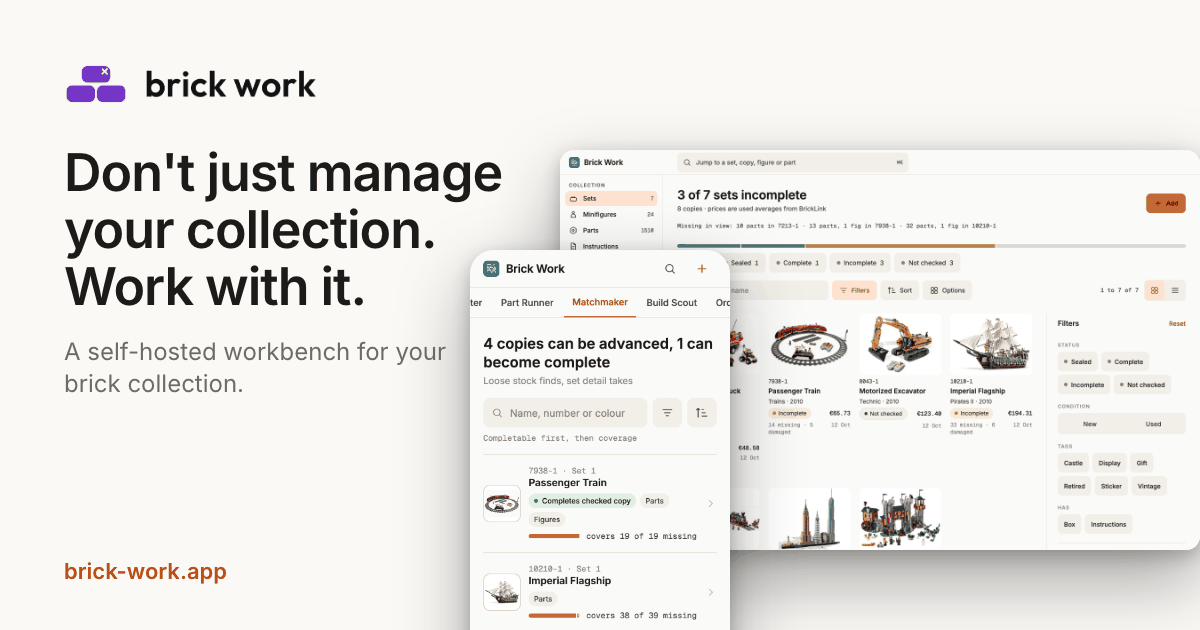
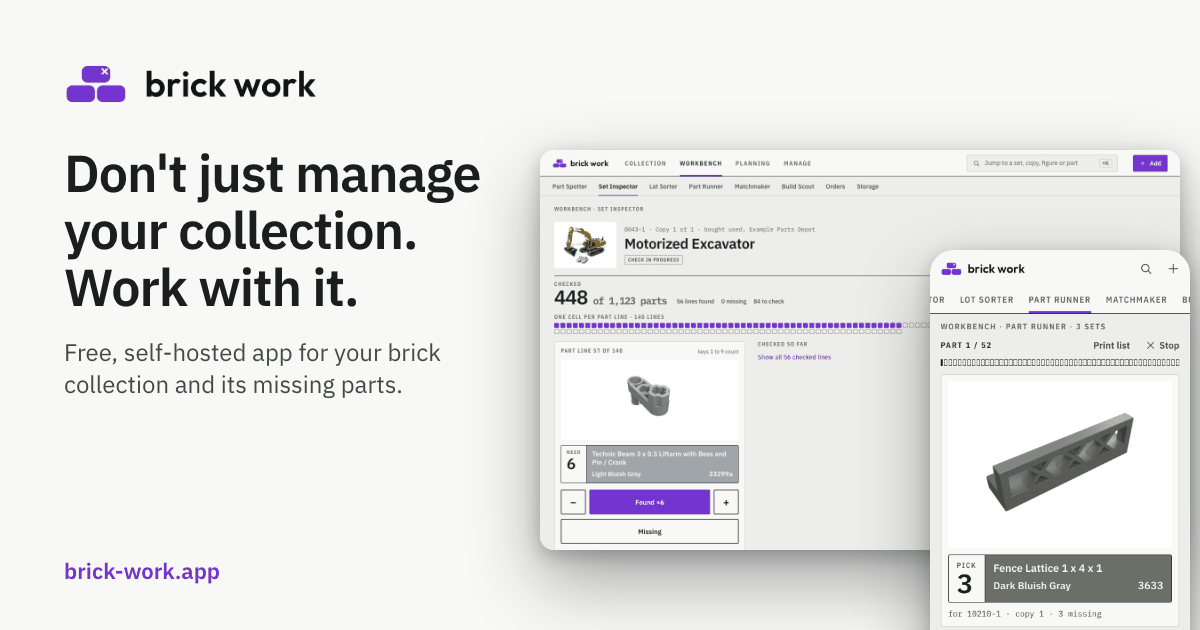
README first screen and social previews on the #622 shots (#502, #467)
Set Inspector desktop large and Part Runner phone small in the README first
screen; the sets list moves to "In pictures". site_social.py reads the two
README shots; both previews re-rendered (1200x630, 1280x640).

Docs: README and docs images only, no app source.

Claude-Session: https://claude.ai/code/session_018rf9z6rjRKwfGfRGmRRHUP

diff --git a/scripts/site_social.py b/scripts/site_social.py
@@ -180,8 +180,8 @@ def build_html(folder: Path, width: int = 1200, height: int = 630) -> str:
         '__WIDTH__': str(width),
         '__HEIGHT__': str(height),
         '__SHIFT__': str(width - 1200),
-        '__DESKTOP_IMG__': stage(ROOT / 'scripts' / 'site' / 'img' / '1c-sets-desktop-1440-light.png', folder),
-        '__PHONE_IMG__': stage(ROOT / 'scripts' / 'site' / 'img' / '3a-matcher-phone-390-light.png', folder),
+        '__DESKTOP_IMG__': stage(ROOT / 'docs' / 'img' / 'readme' / '3e-part-desktop-1440-light.png', folder),
+        '__PHONE_IMG__': stage(ROOT / 'docs' / 'img' / 'readme' / '3c-picker-pick-phone-390-light.png', folder),
     }
     page = HTML
     for key, value in tokens.items():

diff --git a/README.md b/README.md
@@ -28,12 +28,12 @@
 <p align="center">
   <a href="https://brick-work.app/demo/">
     <picture>
-      <source media="(prefers-color-scheme: dark)" srcset="docs/img/readme/1c-sets-desktop-1440-dark.png">
-      <img src="docs/img/readme/1c-sets-desktop-1440-light.png" alt="Brick Work: the sets list on an invented collection" width="620">
+      <source media="(prefers-color-scheme: dark)" srcset="docs/img/readme/3e-part-desktop-1440-dark.png">
+      <img src="docs/img/readme/3e-part-desktop-1440-light.png" alt="Brick Work: Set Inspector in the middle of a part check, the Motorized Excavator at part line 57 of 140 with Found and Missing buttons" width="620">
     </picture>
     <picture>
-      <source media="(prefers-color-scheme: dark)" srcset="docs/img/readme/3c-picker-pick-390-dark.png">
-      <img src="docs/img/readme/3c-picker-pick-390-light.png" alt="Brick Work: Part Runner on a phone" width="190">
+      <source media="(prefers-color-scheme: dark)" srcset="docs/img/readme/3c-picker-pick-phone-390-dark.png">
+      <img src="docs/img/readme/3c-picker-pick-phone-390-light.png" alt="Brick Work: Part Runner on a phone, a fence lattice to pick for three sets" width="190">
     </picture>
   </a>
 </p>
@@ -64,6 +64,14 @@ It brings your collection over from Brickset, Rebrickable and BrickTracker, plus
 ## In pictures
 
 These screenshots show the built app on the demo's invented collection, with real Rebrickable set and part pictures.
+
+<p align="center">
+  <picture>
+    <source media="(prefers-color-scheme: dark)" srcset="docs/img/readme/1c-sets-desktop-1440-dark.png">
+    <img src="docs/img/readme/1c-sets-desktop-1440-light.png" alt="Brick Work: the sets list on an invented collection" width="620">
+  </picture>
+  <br><sub><strong>Your sets.</strong> The whole collection in one list, searchable and sorted the way you choose.</sub>
+</p>
 
 <p align="center">
   <picture>
